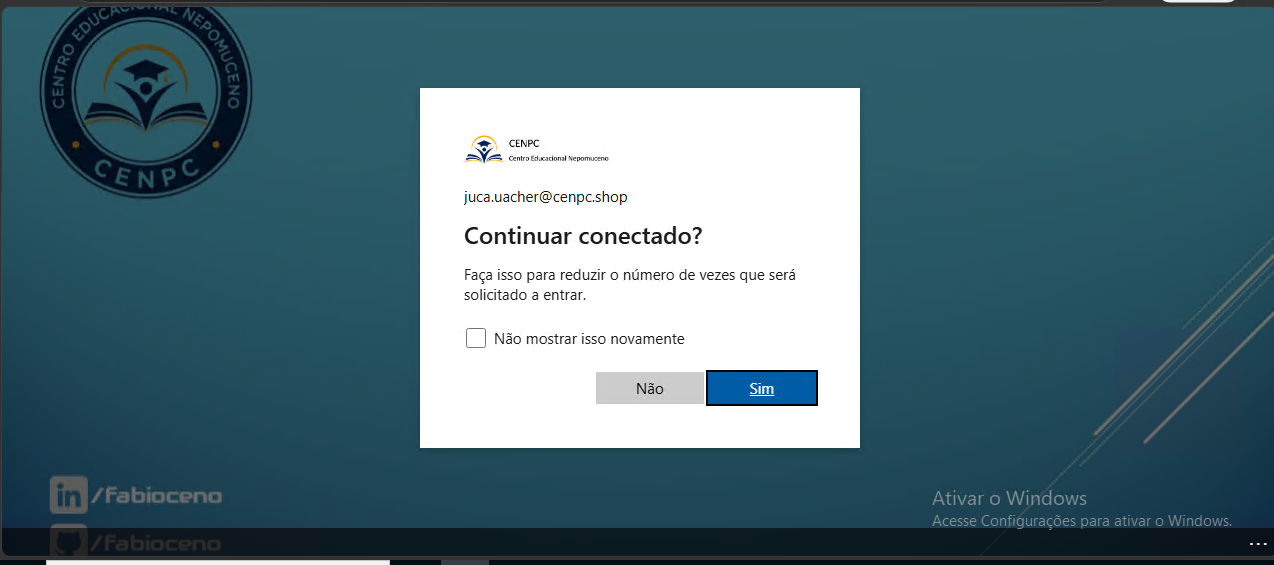
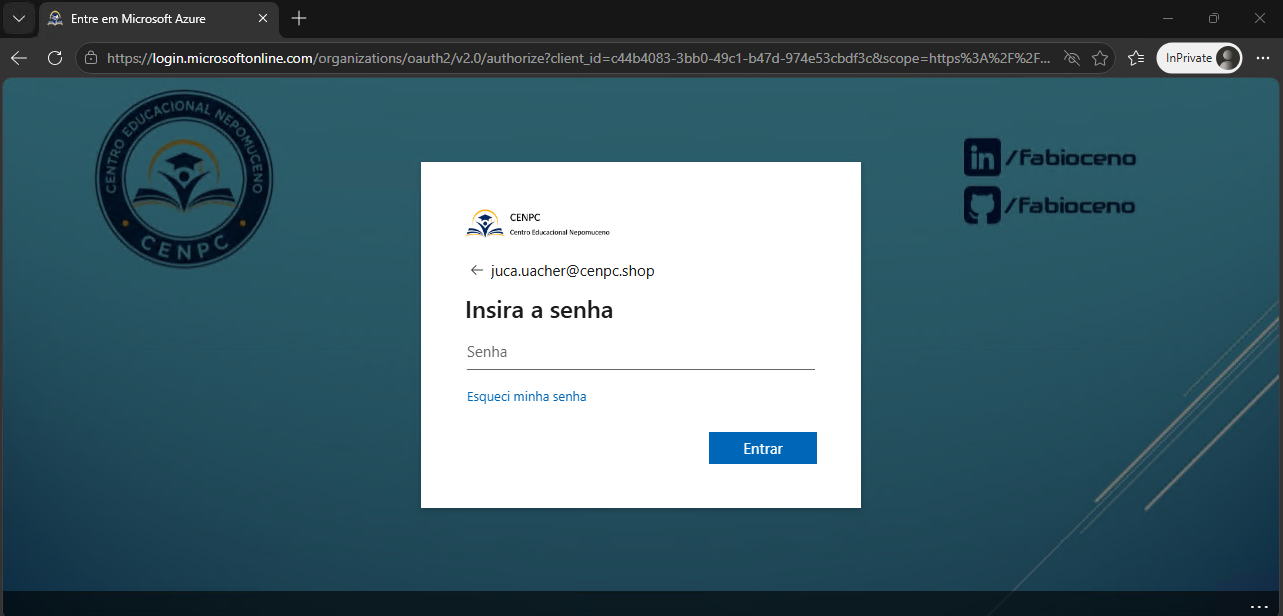
Chamados - Upd 23/10/26 - 17:55

diff --git a/Azure/AZ-104 - Azure Administrator Associate/Request - Requisição/Entra-ID/Administrative Units/REQ-2026-1022-001/Delegação - Reset de Senha (Suporte Tecnico).md b/Azure/AZ-104 - Azure Administrator Associate/Request - Requisição/Entra-ID/Administrative Units/REQ-2026-1022-001/Delegação - Reset de Senha (Suporte Tecnico).md
@@ -1,0 +1,125 @@
+
+# 🎫 CHAMADO ADMINISTRATIVE UNITS — Reset de Senha ( Suporte Técnico)
+
+* Número do chamado: REQ-2026-1022-001
+* Categoria: Delegação | reset de senha | Suporte técnico
+* Prioridade: Média
+* Solicitante: Financeiro
+* Equipe responsável: Suporte Técnico
+* Status: 
+    ```
+    ☑ Em análise
+    ☐ Em implementação
+    ☐ Aguardando validação
+    ☐ Concluído
+    ```
+
+# 1. 📌 Descrição.
+
+* Criar uma Administrative Units para equipe do **Support** com foco na delegação controlada de operações relacionadas à "reset de senha da equipe" **Marketing**.
+
+# 2. 📝 Atendimento | 📸 Evidências.
+
+* Com perfil de *Global Administrator* no **Portal Azure** > Entra ID > Manage > *Administrative Units*.
+
+    <img src="./img/01.png" width="700">
+
+* Em *Administrative Units* > ADD .
+
+    <img src="./img/02.png" width="700">
+
+    * **Properties**:
+
+        <img src="./img/03.png" width="650">
+
+    * **Assign roles**: Selecionada a opção **Password Administrator**.
+
+        <img src="./img/04.png" width="650">
+
+        * Adicionados os usuários da equipe do suporte técnico.
+
+            <img src="./img/05.png" width="600">
+
+    * **Review + Create**
+
+        <img src="./img/06.png" width="650">
+
+* Administrative criada com sucesso.
+
+    <img src="./img/07.png" width="700">
+
+* Após acessar a unidade administrativa que foi criada, em *Manage > Groups > ADD*.  
+    
+    <img src="./img/08.png" width="700">
+
+    * Selecionado o grupo onde fazem parte todos os usuários da equipe de MKT.
+
+        <img src="./img/09.png" width="650">
+
+    * Grupo adicionado com sucesso.
+
+        <img src="./img/10.png" width="650">
+
+    ```Text
+
+       * Grupos de associação dinânica costumam demorar algumas horas para aplicar os privilégios.
+
+    ```
+
+# 3. 💻 Comandos / Scripts Utilizados
+
+> Registrar somente os comandos relevantes para reprodução do procedimento.
+
+```powershell
+
+    Nenhum comando foi executado.
+
+```
+# 4. 🔎 Validação dos usuários
+
+* Autenticando com o usuário *junior.uacher@cenpc.shop* da equipe do Suporte técnico para validar os procedimentos que foram realizados.
+
+    <img src="./img/11.png" width="700">
+
+* Em seguida **ENTRA ID > Gerenciar > Usuários** foi selecionado um colaborador da equipe de MKT para realizar a alteração da senha.
+
+    <img src="./img/12.png" width="700">
+
+* Após escolher a colaboradora, a opção para redefinir a senha estava disponivel.
+
+    <img src="./img/13.png" width="700">
+
+# 5. 📸 Evidências
+
+```
+📁 REQ-2026-1022-001
+└── 📁 img
+    ├── 📄 01.png
+    ├── 📄 02.png
+    ├── 📄 03.png
+    ├── 📄 04.png
+    ├── 📄 05.png
+    ├── 📄 06.png
+    ├── 📄 07.png
+    ├── 📄 08.png
+    ├── 📄 09.png
+    ├── 📄 10.png
+    ├── 📄 11.png
+    ├── 📄 12.png
+    └── 📄 13.png
+```
+    
+# 6.🏁 Encerramento
+
+* Status:
+
+    ```
+    ☐ Em análise
+    ☐ Em implementação
+    ☐ Aguardando validação
+    ☑ Concluído
+    ```
+
+* Analista responsável: Fábio Silva
+
+#

diff --git a/Azure/AZ-104 - Azure Administrator Associate/readme.md b/Azure/AZ-104 - Azure Administrator Associate/readme.md
@@ -63,7 +63,7 @@
 │
 ├── 📁 Procedures - Procedimentos
 │   ├── 📁 Azure
-│   │   └── 📄 Azure (Resource Providers) - Habilitando Recursos.pdf
+│   │   └── 📄 Resource Providers - Habilitando Recursos.pdf
 │   │
 │   ├── 📁 Contas Trial
 │   │   └── 📄 Falha - Criação da conta.pdf
@@ -102,14 +102,16 @@
 │   │   ├── 📁 Resource-Groups
 │   │   │   └── 📄 REQ.md
 │   │   ├── 📁 Storage
-│   │   │     └── 📄 REQ.md
+│   │   │   └── 📄 REQ.md
 │   │   ├── 📁 Subscription
 │   │       └── 📄 REQ.md
 │   │
 │   └── 📁 Entra-ID
 │       ├── 📁 Administrative Units
-│       │   └── 📁 REQ-2026-0923-001
-│       │       └── 📄 Administrative Unit — Delegação para Reset de Senha.md
+│       │   ├──  📁 REQ-2026-0923-001
+│       │   │    └── 📄 Delegação - Reset de Senha e Gerenciamento Grupos.md
+│       │   ├──  📁 REQ-2026-1022-001
+│       │        └── 📄 Delegação - Reset de Senha (Suporte Tecnico).md
 │       ├── 📁 Grupos
 │       │   └── 📁 REQ-2026-1005-001
 │       │       └── 📄 CRIANDO GRUPOS DINAMICOS.md
